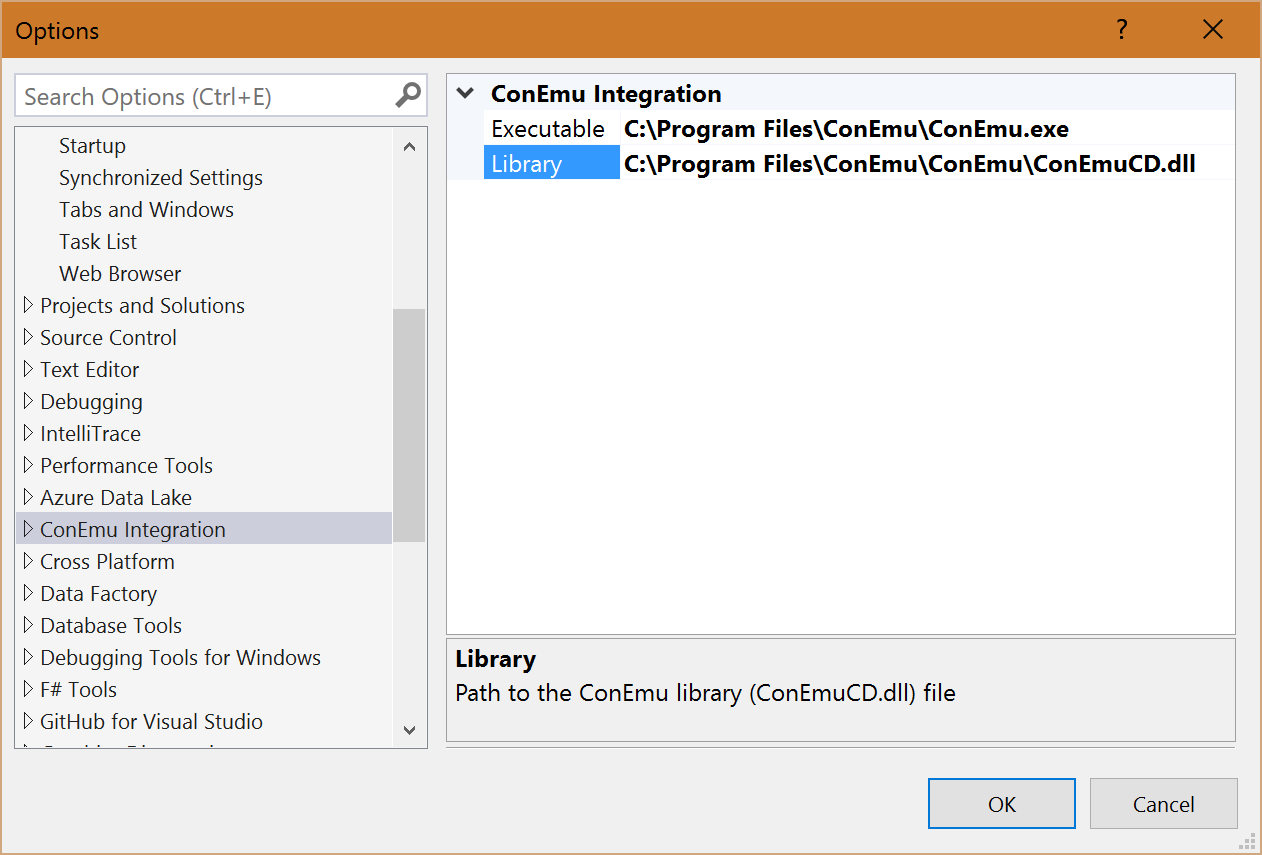
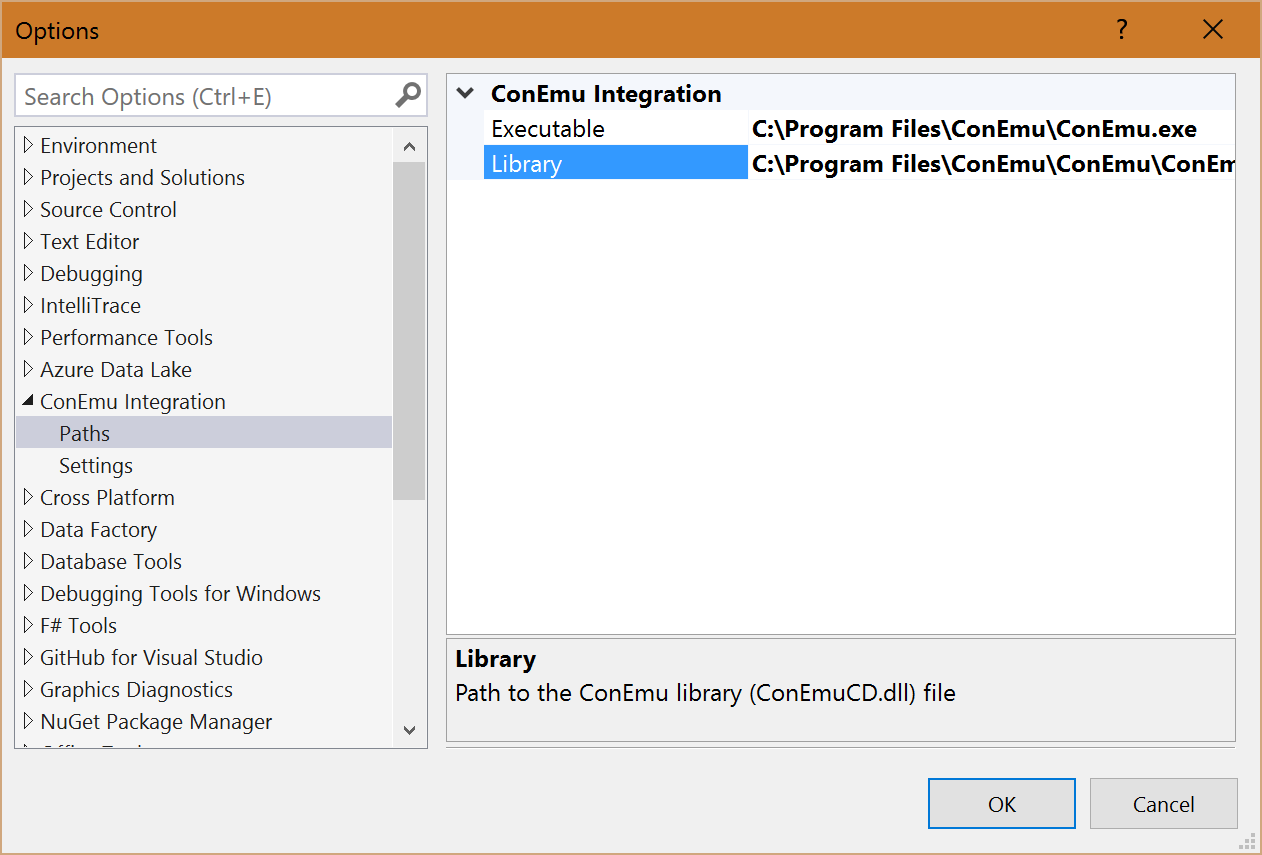
Updated the readme with the new setting options

Changed region(s): [[0.0, 0.152, 0.3399, 0.8515], [0.4945, 0.1216, 0.9889, 0.2129], [0.309, 0.1825, 0.3399, 0.3649]]

diff --git a/README.md b/README.md
@@ -40,6 +40,7 @@ ConEmu integration: <a href="https://github.com/Maximus5/conemu-inside">GitHub</
     - Open the containing folder of the item in conemu
     - Open the output path of the project in conemu
     - Execute the from the project created binary using conemu
+- Setting page for ConEmu and Shell settings
 
 ### Integration of ConEmu as ToolWindow to Visual Studio
 This extension integrates ConEmu as tool window in Visual Studio.<br/>
@@ -53,6 +54,14 @@ The ConEmu tool window can be open from the view menu of Visual Studio<br/>
 The current opened folder in ConEmu can be changed directly from solution explorer.<br/>
 The output file of your project can be also executed in conemu.<br/>
 <img src="Images/ConEmuSolutionExplorer.png" width="400" /><br/>
+
+## Setting page for ConEmu and Shell settings
+Settings of ConEmu and the used shell within ConEmu. 
+
+### Change the type of the shell
+The shell type which is used within ConEmu can be configured on the settings page.<br/>
+Changes of the type of shell may require a restart of Visual Studio before they are used.<br/>
+<img src="Images/SettingsConEmuShell.png" width="400" /><br/>
 
 ## Settings
 Please download / install the ConEmu seperatly. It isn't part of this extension.
